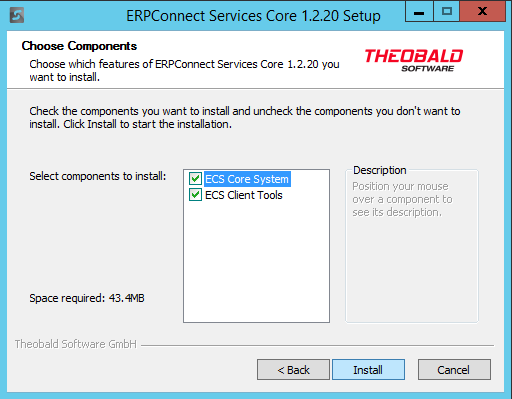
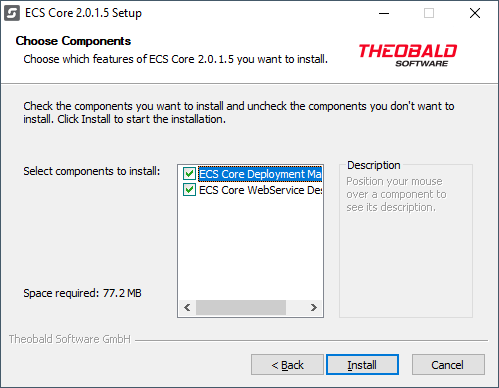
ECS Core installation section (DE) revised.

Changed region(s): [[0.0, 0.0, 1.0, 1.0], [0.6914, 0.4021, 0.9018, 0.5567]]

diff --git a/content/_de/erpconnect-services/ecs-core/voraussetzungen-und-installation/ecscore-installation.md b/content/_de/erpconnect-services/ecs-core/voraussetzungen-und-installation/ecscore-installation.md
@@ -12,27 +12,19 @@ old_url: /ERPConnect-Services-DE/default.aspx?pageid=ecscore-installation
 ---
 
 Die Installation von ECS Core erfolgt über die ausgelieferte oder unter [www.theobald-software.com](https://www.theobald-software.com) downloadbare Installationsroutine 
-*ERPConnectServicesSetupCore.exe*.
+*ECSCoreSetup*.
 
 Klicken Sie auf Next und bestätigen Sie die Lizenzvereinbarung.
 
-![ecscore-installation-2](/img/content/ecscore-installation-2.jpg){:class="img-responsive"}
-
-![ecscore-installation-3](/img/content/ecscore-installation-3.jpg.png){:class="img-responsive"}
-
-Wählen Sie einen Installationspfad.
-
-![ecscore-installation-4](/img/content/ecscore-installation-4.jpg.png){:class="img-responsive"}
+Wählen Sie anschließend einen Installationspfad.
 
 Selektieren Sie beide Komponenten und klicken Sie auf *Install*.
 
 ![ecscore-installation-5](/img/content/ecscore-installation-5.jpg.png){:class="img-responsive"}
 
-Die Komponenten werden installiert. Dabei wird der **Microsoft SQL Server Compact** mitinstalliert, der intern von ECS Core verwendet wird. 
+Die ECS Core Komponenten werden installiert. Sollten die zur Ausführung des Deployment Managers notwendigen IIS Komponenten fehlen, werden diese automatisch mitinstalliert.  
 
-![ecscore-installation-6](/img/content/ecscore-installation-6.jpg.png){:class="img-responsive"}
+Nach der erfolgreichen Installation wird automatisch der *ECS Core Deplyoment Manager* ausgeführt.
 
-Bei der Installation handelt es sich ausschließlich um das Kopieren und die Registrierung der benötigten Dateien.
-
-Nach der Installation müssen Sie noch das *ECS Core DEPLOYMENT* ausführen. Auch nach einer Repair-Installation oder dem Darüberinstallieren einer neuen ECS Core Version ist ein erneutes Deployment notwendig. 
+Auch nach einer Repair-Installation oder dem Darüberinstallieren einer neuen ECS Core Version ist ein erneutes Deployment notwendig. 
 Alle Einzelheiten darüber sind im Abschnitt [Deployment Manager](./ecscore-deployment) beschrieben.
